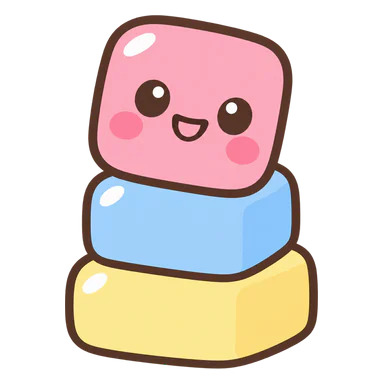
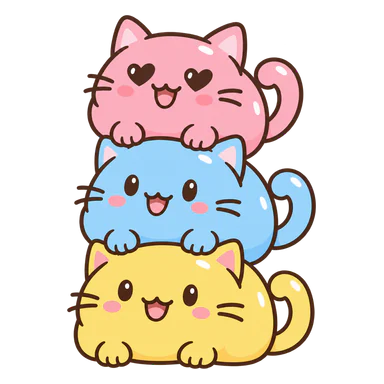
Show stacked cats and a coloring page on the hub cards
The 方塊出門 card now shows three stacked cats, pink with heart eyes on
top of blue and yellow, matching the cats in the game. The 著色畫畫 card
replaces the hand-drawn palette with a half-colored flower page and two
crayons, so all three cards share one illustrated style.

diff --git a/offline-shell.js b/offline-shell.js
@@ -1,3 +1,3 @@
 // Generated by scripts/prepare-release.py
 const SHELL_VERSION="1.0.0-beta.4";
-const SHELL_FILES=["./", "./index.html", "./style.css?v=1.0.0-beta.4", "./app.js?v=1.0.0-beta.4", "./manifest.json", "./icon.svg", "./assets/coloring/catalog.js?v=1.0.0-beta.4", "./modules/assets.js?v=1.0.0-beta.4", "./modules/blocks.js?v=1.0.0-beta.4", "./modules/game-blocks.js?v=1.0.0-beta.4", "./modules/game-kit.js?v=1.0.0-beta.4", "./modules/game-restaurant.js?v=1.0.0-beta.4", "./modules/history.js?v=1.0.0-beta.4", "./modules/install.js?v=1.0.0-beta.4", "./modules/legacy-scenes.js?v=1.0.0-beta.4", "./modules/migrations.js?v=1.0.0-beta.4", "./modules/offline.js?v=1.0.0-beta.4", "./modules/painter.js?v=1.0.0-beta.4", "./modules/palette.js?v=1.0.0-beta.4", "./modules/random.js?v=1.0.0-beta.4", "./modules/regions.js?v=1.0.0-beta.4", "./modules/renderer.js?v=1.0.0-beta.4", "./modules/restaurant.js?v=1.0.0-beta.4", "./modules/scheduler.js?v=1.0.0-beta.4", "./modules/storage.js?v=1.0.0-beta.4", "./modules/surface.js?v=1.0.0-beta.4", "./modules/ui.js?v=1.0.0-beta.4", "./assets/ui/app-icon-192.png", "./assets/ui/app-icon-512.png", "./assets/ui/app-icon-maskable-512.png", "./assets/ui/back.svg", "./assets/ui/category-dolphin.png", "./assets/ui/category-gabby.png", "./assets/ui/category-kitty.png", "./assets/ui/category-peppa.png", "./assets/ui/category-snow-white.png", "./assets/ui/category-toothless.png", "./assets/ui/category-winger.png", "./assets/ui/clear.svg", "./assets/ui/download.svg", "./assets/ui/eraser.svg", "./assets/ui/fill.svg", "./assets/ui/fullscreen.svg", "./assets/ui/gallery.svg", "./assets/ui/game-blocks.webp", "./assets/ui/game-coloring.svg", "./assets/ui/game-restaurant.webp", "./assets/ui/home.svg", "./assets/ui/levels.svg", "./assets/ui/more.svg", "./assets/ui/pastel-corners.png", "./assets/ui/pen.svg", "./assets/ui/redo.svg", "./assets/ui/restart.svg", "./assets/ui/settings.svg", "./assets/ui/sun.png", "./assets/ui/undo.svg", "./assets/games/restaurant/animal-bear.webp", "./assets/games/restaurant/animal-cat.webp", "./assets/games/restaurant/animal-chick.webp", "./assets/games/restaurant/animal-cow.webp", "./assets/games/restaurant/animal-dog.webp", "./assets/games/restaurant/animal-fox.webp", "./assets/games/restaurant/animal-frog.webp", "./assets/games/restaurant/animal-hamster.webp", "./assets/games/restaurant/animal-koala.webp", "./assets/games/restaurant/animal-lion.webp", "./assets/games/restaurant/animal-monkey.webp", "./assets/games/restaurant/animal-mouse.webp", "./assets/games/restaurant/animal-panda.webp", "./assets/games/restaurant/animal-penguin.webp", "./assets/games/restaurant/animal-pig.webp", "./assets/games/restaurant/animal-rabbit.webp", "./assets/games/restaurant/animal-tiger.webp", "./assets/games/restaurant/animal-unicorn.webp", "./assets/games/restaurant/food-apple.webp", "./assets/games/restaurant/food-banana.webp", "./assets/games/restaurant/food-bread.webp", "./assets/games/restaurant/food-burger.webp", "./assets/games/restaurant/food-cake.webp", "./assets/games/restaurant/food-carrot.webp", "./assets/games/restaurant/food-cheese.webp", "./assets/games/restaurant/food-cookie.webp", "./assets/games/restaurant/food-corn.webp", "./assets/games/restaurant/food-donut.webp", "./assets/games/restaurant/food-fish.webp", "./assets/games/restaurant/food-fries.webp", "./assets/games/restaurant/food-grapes.webp", "./assets/games/restaurant/food-honey.webp", "./assets/games/restaurant/food-icecream.webp", "./assets/games/restaurant/food-milk.webp", "./assets/games/restaurant/food-pizza.webp", "./assets/games/restaurant/food-riceball.webp", "./assets/games/restaurant/food-strawberry.webp", "./assets/games/restaurant/food-watermelon.webp", "./assets/games/restaurant/room-counter-landscape.webp", "./assets/games/restaurant/room-counter-portrait.webp", "./assets/games/restaurant/room-panels-landscape.webp", "./assets/games/restaurant/room-panels-portrait.webp", "./assets/games/restaurant/room-stripes-landscape.webp", "./assets/games/restaurant/room-stripes-portrait.webp", "./assets/games/restaurant/room-wall-landscape.webp", "./assets/games/restaurant/room-wall-portrait.webp"];
+const SHELL_FILES=["./", "./index.html", "./style.css?v=1.0.0-beta.4", "./app.js?v=1.0.0-beta.4", "./manifest.json", "./icon.svg", "./assets/coloring/catalog.js?v=1.0.0-beta.4", "./modules/assets.js?v=1.0.0-beta.4", "./modules/blocks.js?v=1.0.0-beta.4", "./modules/game-blocks.js?v=1.0.0-beta.4", "./modules/game-kit.js?v=1.0.0-beta.4", "./modules/game-restaurant.js?v=1.0.0-beta.4", "./modules/history.js?v=1.0.0-beta.4", "./modules/install.js?v=1.0.0-beta.4", "./modules/legacy-scenes.js?v=1.0.0-beta.4", "./modules/migrations.js?v=1.0.0-beta.4", "./modules/offline.js?v=1.0.0-beta.4", "./modules/painter.js?v=1.0.0-beta.4", "./modules/palette.js?v=1.0.0-beta.4", "./modules/random.js?v=1.0.0-beta.4", "./modules/regions.js?v=1.0.0-beta.4", "./modules/renderer.js?v=1.0.0-beta.4", "./modules/restaurant.js?v=1.0.0-beta.4", "./modules/scheduler.js?v=1.0.0-beta.4", "./modules/storage.js?v=1.0.0-beta.4", "./modules/surface.js?v=1.0.0-beta.4", "./modules/ui.js?v=1.0.0-beta.4", "./assets/ui/app-icon-192.png", "./assets/ui/app-icon-512.png", "./assets/ui/app-icon-maskable-512.png", "./assets/ui/back.svg", "./assets/ui/category-dolphin.png", "./assets/ui/category-gabby.png", "./assets/ui/category-kitty.png", "./assets/ui/category-peppa.png", "./assets/ui/category-snow-white.png", "./assets/ui/category-toothless.png", "./assets/ui/category-winger.png", "./assets/ui/clear.svg", "./assets/ui/download.svg", "./assets/ui/eraser.svg", "./assets/ui/fill.svg", "./assets/ui/fullscreen.svg", "./assets/ui/gallery.svg", "./assets/ui/game-blocks.webp", "./assets/ui/game-coloring.webp", "./assets/ui/game-restaurant.webp", "./assets/ui/home.svg", "./assets/ui/levels.svg", "./assets/ui/more.svg", "./assets/ui/pastel-corners.png", "./assets/ui/pen.svg", "./assets/ui/redo.svg", "./assets/ui/restart.svg", "./assets/ui/settings.svg", "./assets/ui/sun.png", "./assets/ui/undo.svg", "./assets/games/restaurant/animal-bear.webp", "./assets/games/restaurant/animal-cat.webp", "./assets/games/restaurant/animal-chick.webp", "./assets/games/restaurant/animal-cow.webp", "./assets/games/restaurant/animal-dog.webp", "./assets/games/restaurant/animal-fox.webp", "./assets/games/restaurant/animal-frog.webp", "./assets/games/restaurant/animal-hamster.webp", "./assets/games/restaurant/animal-koala.webp", "./assets/games/restaurant/animal-lion.webp", "./assets/games/restaurant/animal-monkey.webp", "./assets/games/restaurant/animal-mouse.webp", "./assets/games/restaurant/animal-panda.webp", "./assets/games/restaurant/animal-penguin.webp", "./assets/games/restaurant/animal-pig.webp", "./assets/games/restaurant/animal-rabbit.webp", "./assets/games/restaurant/animal-tiger.webp", "./assets/games/restaurant/animal-unicorn.webp", "./assets/games/restaurant/food-apple.webp", "./assets/games/restaurant/food-banana.webp", "./assets/games/restaurant/food-bread.webp", "./assets/games/restaurant/food-burger.webp", "./assets/games/restaurant/food-cake.webp", "./assets/games/restaurant/food-carrot.webp", "./assets/games/restaurant/food-cheese.webp", "./assets/games/restaurant/food-cookie.webp", "./assets/games/restaurant/food-corn.webp", "./assets/games/restaurant/food-donut.webp", "./assets/games/restaurant/food-fish.webp", "./assets/games/restaurant/food-fries.webp", "./assets/games/restaurant/food-grapes.webp", "./assets/games/restaurant/food-honey.webp", "./assets/games/restaurant/food-icecream.webp", "./assets/games/restaurant/food-milk.webp", "./assets/games/restaurant/food-pizza.webp", "./assets/games/restaurant/food-riceball.webp", "./assets/games/restaurant/food-strawberry.webp", "./assets/games/restaurant/food-watermelon.webp", "./assets/games/restaurant/room-counter-landscape.webp", "./assets/games/restaurant/room-counter-portrait.webp", "./assets/games/restaurant/room-panels-landscape.webp", "./assets/games/restaurant/room-panels-portrait.webp", "./assets/games/restaurant/room-stripes-landscape.webp", "./assets/games/restaurant/room-stripes-portrait.webp", "./assets/games/restaurant/room-wall-landscape.webp", "./assets/games/restaurant/room-wall-portrait.webp"];

diff --git a/app.js b/app.js
@@ -73,7 +73,7 @@ const GAMES = [
     id: "coloring",
     name: "著色畫畫",
     hint: "選一張圖塗上顏色",
-    cover: "assets/ui/game-coloring.svg",
+    cover: "assets/ui/game-coloring.webp",
   },
   {
     id: "blocks",

diff --git a/assets/ui/SOURCES.md b/assets/ui/SOURCES.md
@@ -4,5 +4,5 @@
 - sun.png：2026-10-06 使用 imagegen 生成的透明笑臉太陽，黃色、橘色短光芒、粉紅臉頰，縮至首頁 64px 使用。
 - pastel-corners.png：同日使用 imagegen 生成的透明四角淡藍／青／粉／薄荷裝飾，中央留白。只用於介面背景，不畫進使用者作品。
 - category-*.png：從對應現有 SVG 移除 sky、以單一淡色填色後渲染；角色線稿來源及使用條件沿用 ../coloring/SOURCES.md。保持真實線稿構圖與比例。
-- game-coloring.svg、../../icon.svg：2026-10-28 為「小小遊樂園」手繪的簡單 SVG（調色盤、疊方塊與星星的 App 圖示）；app-icon-*.png 由 scripts/build-app-icons.cjs 從 icon.svg 產生。
-- game-blocks.webp、game-restaurant.webp 與 ../games/restaurant/*.webp：2026-10-28 以 ChatGPT 圖片生成製作的透明 PNG（圓潤扁平、#594137 深咖啡色描邊、粉彩配色），由 scripts/build-game-art.cjs 裁邊、置中並轉成 WebP。../games/restaurant/room-*.webp 是同日生成的直式、橫式餐廳背景（不透明），由同一個腳本切成牆面、條紋、櫃台邊緣與櫃台面板四段。原始 PNG 不放進版本庫。
+- ../../icon.svg：2026-10-28 為「小小遊樂園」手繪的簡單 SVG（疊方塊與星星的 App 圖示）；app-icon-*.png 由 scripts/build-app-icons.cjs 從 icon.svg 產生。
+- game-*.webp 與 ../games/restaurant/*.webp：2026-10-28 至 10-29 以 ChatGPT 圖片生成製作的透明 PNG（圓潤扁平、#594137 深咖啡色描邊、粉彩配色），由 scripts/build-game-art.cjs 裁邊、置中並轉成 WebP。../games/restaurant/room-*.webp 是同日生成的直式、橫式餐廳背景（不透明），由同一個腳本切成牆面、條紋、櫃台邊緣與櫃台面板四段。原始 PNG 不放進版本庫。
